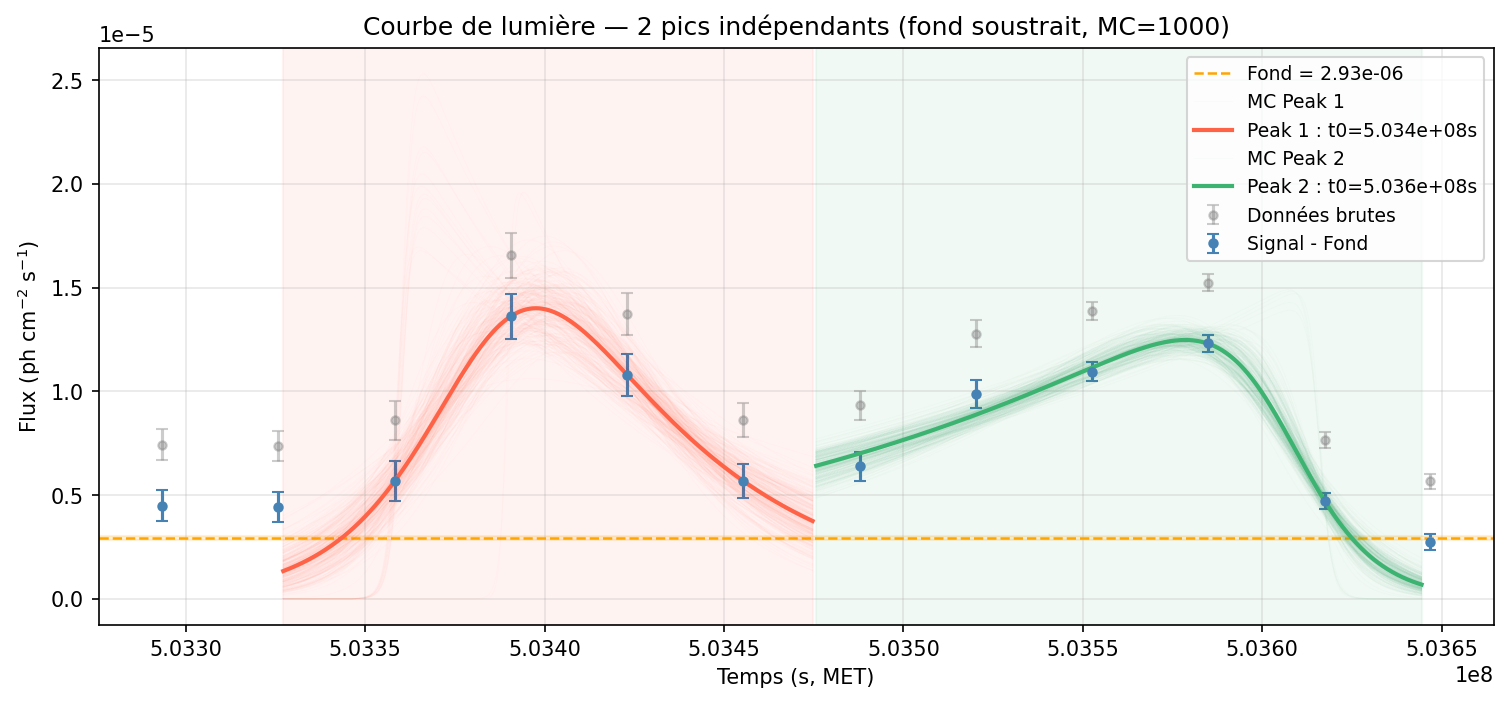
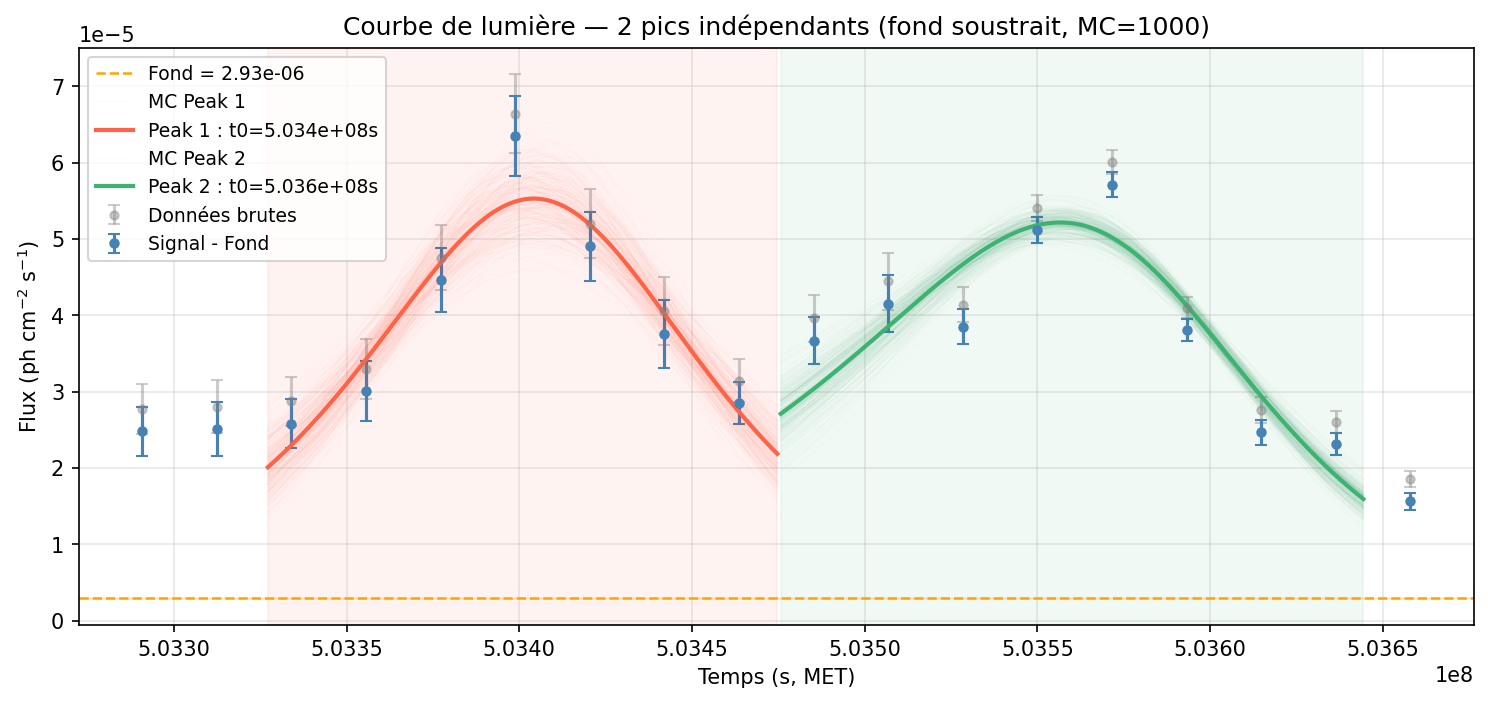
maj 03_03

diff --git a/peak_fitting_fond_best.py b/peak_fitting_fond_best.py
@@ -20,8 +20,8 @@ filenames_fond = [
 T_MIN = 503280004+13*3600  # 5.03277224e+08
 T_MAX = 503280004+4*86400
 PEAK_TIME_CONSTRAINTS = [
-    (5.033985e+8, 5.033327e+08, 5.034666e+08),   # Peak 1
-    (5.035719e+08, 5.034866e+08, 5.036153e+08),   # Peak 2
+    (5.033991e+8, 5.033304e+08, 5.034909e+08),   # Peak 1
+    (5.035638e+08, 5.034482e+08, 5.036444e+08),   # Peak 2
 ]
 
 # =====================================================
@@ -166,9 +166,9 @@ for k in range(N_MC):
 valid_mc   = np.all(np.isfinite(mc_params), axis=1)
 mc_params  = mc_params[valid_mc]
 print(f"  {mc_params.shape[0]}/{N_MC} fits MC valides")
-print(len(mc_params[0]))
+
 # Incertitudes MC par paramètre
-mc_std = np.std(mc_params, ddof=1, axis=0)/ np.sqrt(N_MC)
+mc_std = np.std(mc_params, ddof=1, axis=0)
 
 # =====================================================
 # RÉSULTATS

diff --git a/peak_fitting_inde.py b/peak_fitting_inde.py
@@ -9,7 +9,7 @@ from scipy.optimize import curve_fit
 # =====================================================
 N_MC = 1000
 
-filename       = "results_simple/gtbin_selected_region_9h_bin.fits"
+filename       = "results_simple/lat_photon_flare1article_selected_radius4_LC_p6h.fits"
 filenames_fond = [
     "SED_output/FOND_peak/gt_bin_activite_1_fond_1_100_20000.fits",
     "SED_output/FOND_peak/gt_bin_activite_1_fond_2_100_20000.fits",
